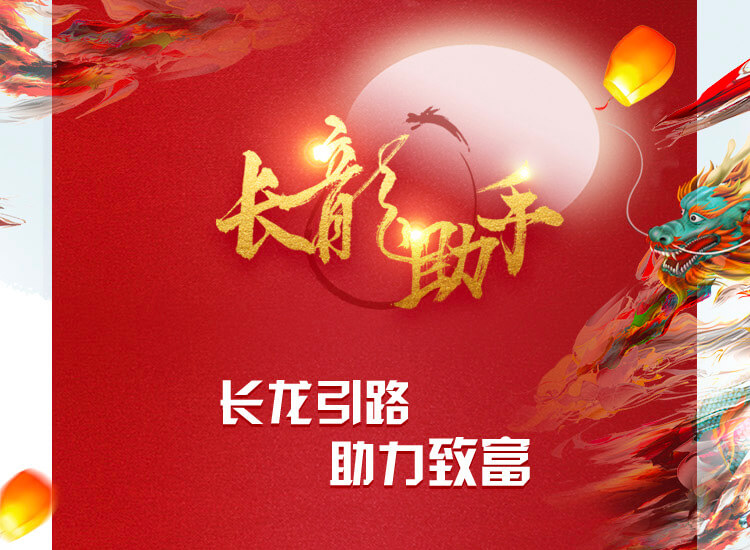
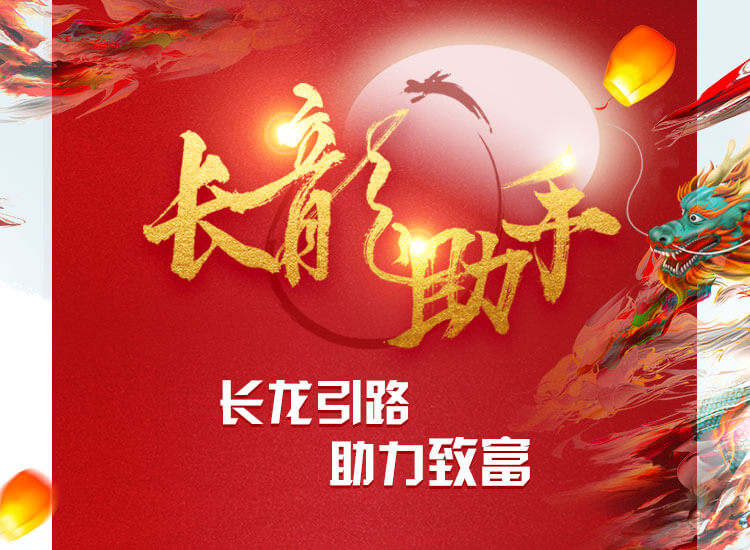
add data

diff --git a/js/data.js b/js/data.js
@@ -423,6 +423,45 @@ var vm = new Vue({
         mainbannerimg: "",
         bannerimg: "",
         name: "即将上线",
+        time: "2019/03/09",
+        containtexts: "【1.2.8V1】版本功能说明",
+        containtext:
+          '\
+                <table>\
+                    <tr>\
+                        <td width="20%">标题</td>\
+                        <td>内容描述</td>\
+                    </tr >\
+                    <tr>\
+                        <td>【第三方】游戏平台</td>\
+                        <td class="txtleft">\
+                        1.	去掉已下架游戏平台，包含“旧MG电子，MG视讯，BB3D、OPUS视讯”。</br>\
+                        2.	新MG电子改名为MG电子，不区分3线和5线老虎机，统一显示老虎机。</br>\
+                        </td>\
+                    </tr>\
+                    <tr>\
+                        <td>【代理端】现金系统</td>\
+                        <td class="txtleft">\
+                        1．【账号管理_子账号】界面新增“出入款限额”功能，厅主可控制子账号权限，子账号在核对出入款时，只能操作分配的金额范围订单。</br>\
+                        2．【入款记录】和【订单号查询】界面新增”导出”功能,，方便统计数据。</br>\
+                        3．【出款记录】界面新增“操作日期和后台备注”两列，导出功能同步优化。</br>\
+                        4．【取款稽核查询】界面中新增【快速出款】线上出款记录，可区分快速出款状态。</br>\
+                        5．【支付平台设定_线上入款_订单号查询】页面名称优化，添加“商家代称”一列。</br>\
+                        6．【支付平台设定_线上入款_商家号列表】的第二方外链支持https协议，同时外链支付名称前缀统一添加“第二方”。\
+                        </td>\
+                    </tr>'
+      },
+      {
+        newstype: 1,
+        importanttag: true,
+        istopbanner: false,
+        clickto: true,
+        link: "javascript: void(0)",
+        downloadbtn: false,
+        downloadlink: "",
+        mainbannerimg: "",
+        bannerimg: "",
+        name: "即将上线",
         time: "2019/03/08",
         containtexts: "彩票2.0.4版本功能说明",
         containtext:
@@ -433,7 +472,7 @@ var vm = new Vue({
                         <td>内容描述</td>\
                     </tr >\
                     <tr>\
-                        <td>H5彩票新增长龙助手功能</td>\
+                        <td>H5彩票新增<a href="action/20190308_long/index.html" target="_blank">长龙助手</a>功能</td>\
                         <td class="txtleft">\
                         1、查看“大”‘小“”单“”双“玩法3期及以上的长龙</br>\
                         2、提供斩龙和顺龙投注方案，支持立即投注</br>\

diff --git a/action/20190308_long/stylesheets/screen.css b/action/20190308_long/stylesheets/screen.css
@@ -237,6 +237,7 @@ input {
   }
 }
 /* line 273, ../sass/screen.scss */
+
 .topbanner .title_effect {
   position: absolute;
   width: 100%;
@@ -245,7 +246,11 @@ input {
   background: url("../images/gold.gif") top center;
   background-size: cover;
 }
-
+@media screen and (min-width: 0) and (max-width: 750px) {
+  .topbanner .title_effect {
+    background: none;
+  }
+}
 /* line 282, ../sass/screen.scss */
 .sectitle {
   text-align: center;

diff --git a/action/20190308_long/sass/screen.scss b/action/20190308_long/sass/screen.scss
@@ -277,6 +277,9 @@ input{
         top:0;
         background: url("../images/gold.gif") top center;
         background-size: cover;
+        @include range-width-in(0,750px){
+            background:none;
+        }
     }
 }
 .sectitle{
